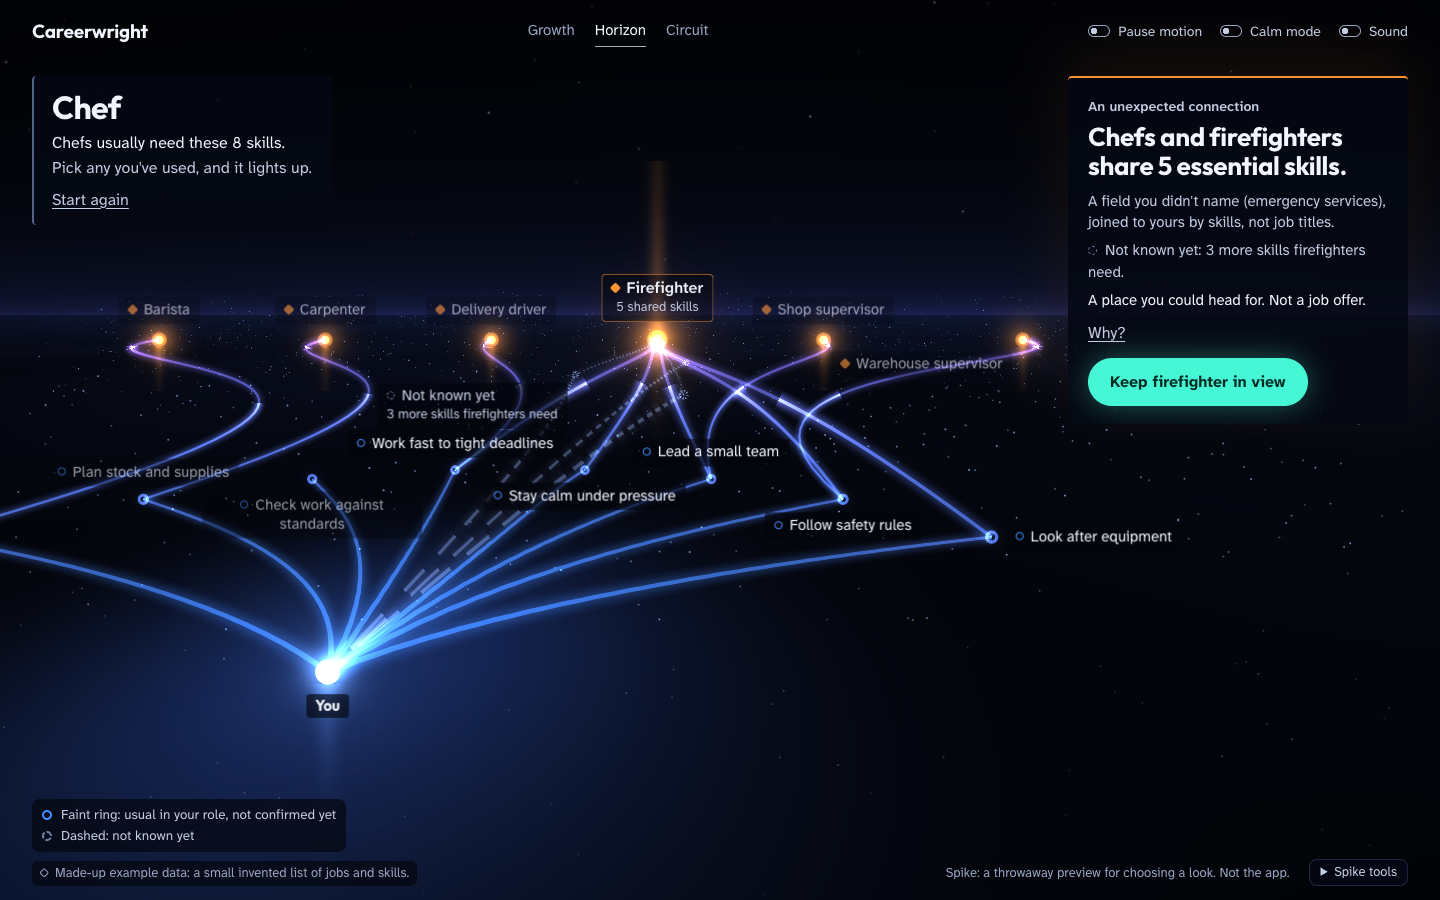
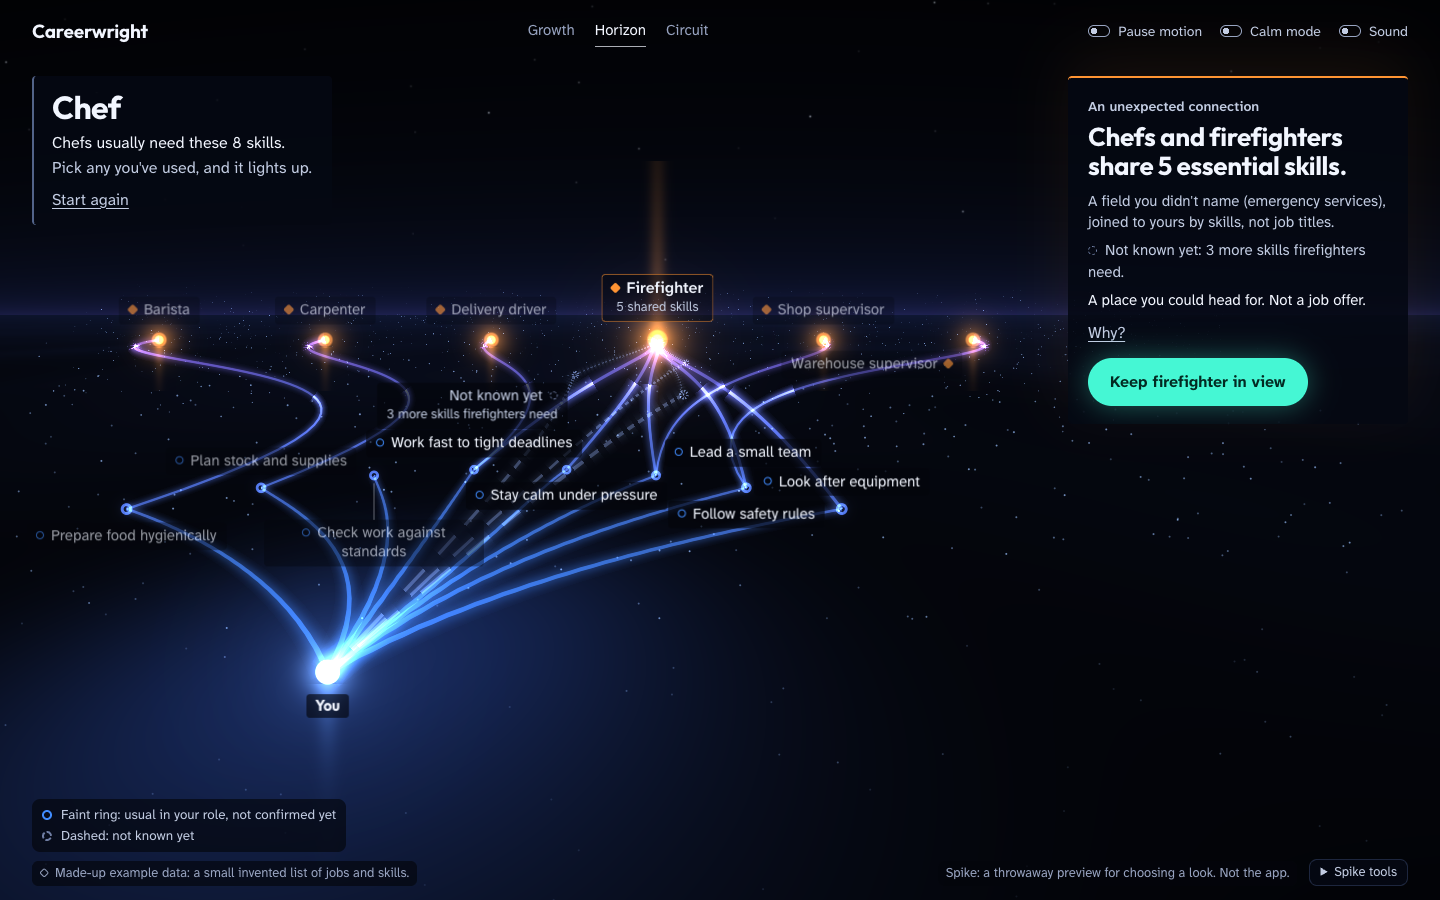
Update session W1's package for fix round 2: lights or names, click to keep
Step 4 now matches the world: point at the orange lights or their names, and click one to keep
its shared skills showing. Screenshots retaken from the round-2 build.

Changed region(s): [[0.0, 0.3422, 0.8125, 0.7467]]

diff --git a/docs/reviews/session-w1.md b/docs/reviews/session-w1.md
@@ -42,8 +42,8 @@ In each one, do this:
 2. Watch for ten seconds. Don't click.
    Your light comes on, and a few seconds later something new lights up.
 3. Read the card on the right. Click **Why?**
-4. Point at a few of the orange lights (or press Tab to reach them).
-   Each one shows the skills it shares with your job.
+4. Point at a few of the orange lights, or at their names (or press Tab to reach them).
+   Each one shows the skills it shares with your job. Click one to keep them showing.
 5. Click two skills you've used. Watch what changes.
 6. Click the bright button, **Keep … in view**. Then click **Undo**.
 7. Turn on **Calm mode**. It's the same world, standing still. Turn it off again.
